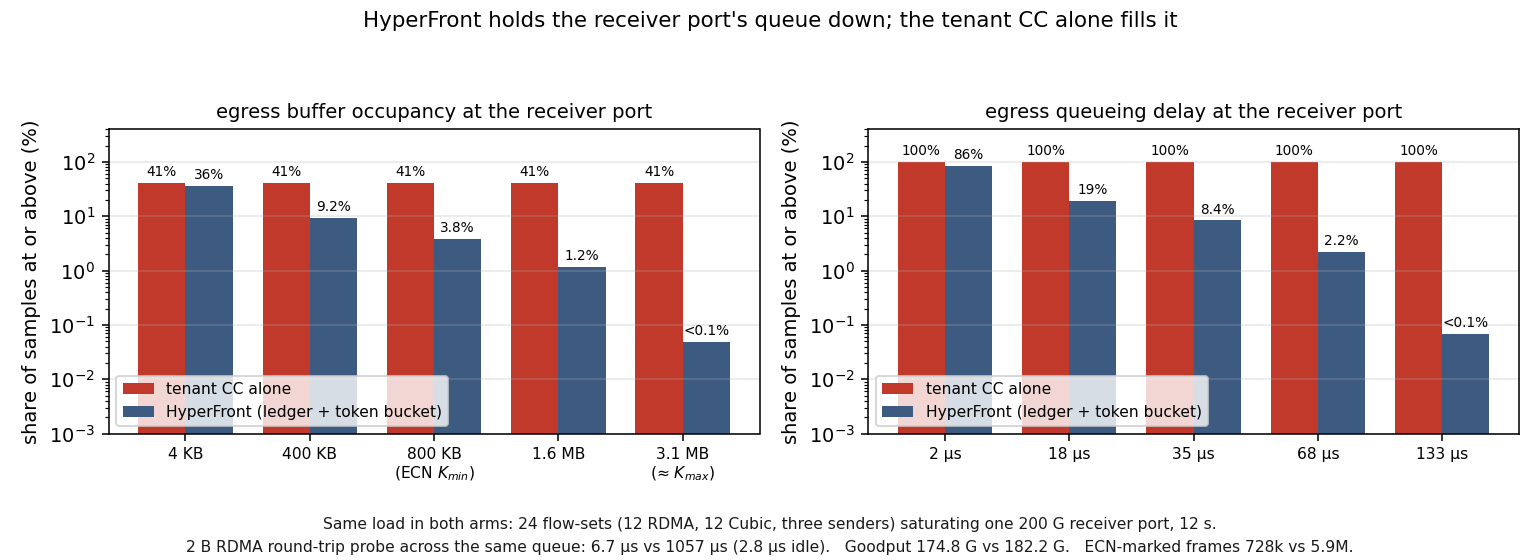
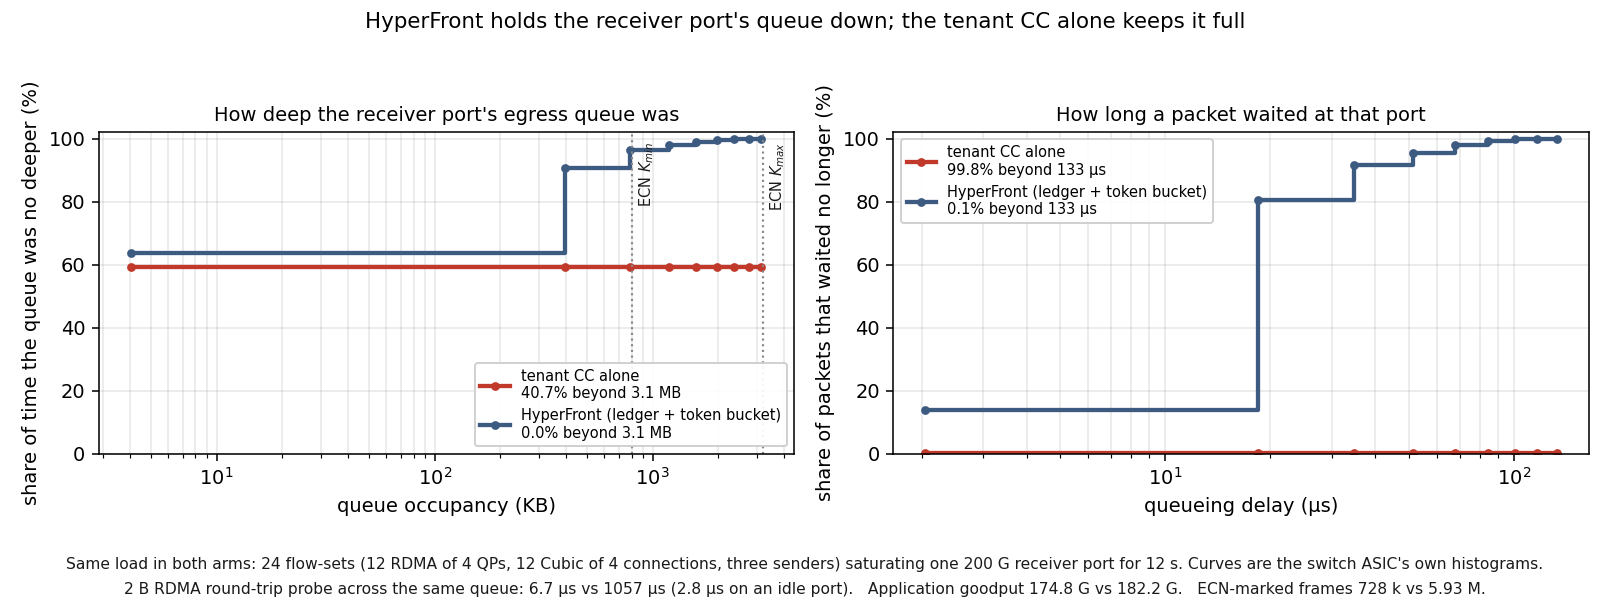
排队实验的图改成累积分布：左图队列深度、右图排队时延，两臂各一条，档的边界带标记，溢出档在图例里注明

diff --git a/results/queueing_20260908/plot/queueing.py b/results/queueing_20260908/plot/queueing.py
@@ -1,12 +1,15 @@
 #!/usr/bin/env python3
-"""fig/queueing.png: what the shaper does to the receiver port's queue.
+"""fig/queueing.png: what the shaper does to the receiver port's queue, as CDFs.
 
-Left  - how often the egress buffer at swp37s0 is at or above a threshold,
-        from the ASIC's own occupancy histogram (one sample per 1024 ns).
-Right - how often a packet leaving that port waited at or above a threshold,
-        from the ASIC's egress-latency histogram over the same window.
-Both are read as "share of samples at or above x", so lower is better, and
-the thresholds are the bin edges the switch itself uses.
+Left  - how deep the egress queue at swp37s0 was, from the ASIC's own
+        occupancy histogram: one sample every 1024 ns, so the curve reads
+        "the queue was no deeper than x for this share of the time".
+Right - how long a packet leaving that port waited, from the ASIC's
+        egress-latency histogram over the same window: one sample per packet,
+        so the curve reads "this share of packets waited no longer than x".
+The switch bins the data itself, so both curves are step functions and the
+markers sit on the bin edges. Everything above the last edge lands in one
+overflow bin, which is why each curve is annotated with what is left above it.
 Reads data/queueing.csv (distill.py output) only.
 """
 import csv, os
@@ -15,7 +18,7 @@ import matplotlib; matplotlib.use("Agg")
 import matplotlib.pyplot as plt
 
 BASE = os.path.dirname(os.path.dirname(os.path.abspath(__file__)))
-C = {"hpft": "#3D5A80", "cc": "#c0392b", "ink": "#1a1a1a"}
+C = {"hpft": "#3D5A80", "cc": "#c0392b", "ref": "#888888", "ink": "#1a1a1a"}
 LBL = {"hpft": "HyperFront (ledger + token bucket)", "cc": "tenant CC alone"}
 ARMS = ("cc", "hpft")
 
@@ -23,40 +26,55 @@ rows = list(csv.DictReader(open(os.path.join(BASE, "data", "queueing.csv"))))
 val = lambda m, a: float(next(r["value"] for r in rows if r["metric"] == m and r["arm"] == a))
 
 
-def share_at_or_above(metric, arm, lo):
+def cdf(metric, arm, scale):
+    """[(bin upper edge in display units, cumulative %)], overflow bin excluded;
+    also returns what share is left above the last finite edge."""
     sel = [r for r in rows if r["metric"] == metric and r["arm"] == arm]
-    tot = sum(float(r["count"]) for r in sel) or 1.0
-    return 100.0 * sum(float(r["count"]) for r in sel if float(r["bin_lo"]) >= lo) / tot
+    bins = sorted(((float(r["bin_lo"]), r["bin"], float(r["count"])) for r in sel))
+    tot = sum(b[2] for b in bins) or 1.0
+    xs, ys, cum = [], [], 0.0
+    for lo, name, cnt in bins:
+        cum += cnt
+        hi = name.split(":")[1]
+        if hi == "*":
+            break                      # the overflow bin has no upper edge
+        xs.append(int(hi) * scale); ys.append(100.0 * cum / tot)
+    return xs, ys, 100.0 - ys[-1]
 
 
 PANELS = [
-    ("buffer", "egress buffer occupancy", [(4032, "4 KB"), (397248, "400 KB"), (790464, "800 KB\n(ECN $K_{min}$)"),
-                                           (1576896, "1.6 MB"), (3149760, "3.1 MB\n(≈ $K_{max}$)")]),
-    ("latency", "egress queueing delay", [(2048, "2 µs"), (18432, "18 µs"), (34816, "35 µs"),
-                                          (67584, "68 µs"), (133120, "133 µs")]),
+    ("buffer", 1 / 1e3, "queue occupancy (KB)",
+     "How deep the receiver port's egress queue was",
+     "share of time the queue was no deeper (%)",
+     [(800, "ECN $K_{min}$"), (3200, "ECN $K_{max}$")], "3.1 MB", "lower right"),
+    ("latency", 1 / 1e3, "queueing delay (µs)",
+     "How long a packet waited at that port",
+     "share of packets that waited no longer (%)", [], "133 µs", "upper left"),
 ]
-fig, ax = plt.subplots(1, 2, figsize=(11, 4.0))
-for a, (metric, title, ticks) in enumerate(PANELS):
-    x = np.arange(len(ticks)); w = 0.38
-    for i, arm in enumerate(ARMS):
-        y = [max(share_at_or_above(metric, arm, lo), 1e-3) for lo, _ in ticks]
-        b = ax[a].bar(x + (i - 0.5) * w, y, w, color=C[arm], label=LBL[arm])
-        ax[a].bar_label(b, labels=[("%.0f%%" % v) if v >= 10 else ("%.1f%%" % v) if v >= 0.1 else "<0.1%"
-                                   for v in y], fontsize=7, padding=2)
-    ax[a].set_yscale("log"); ax[a].set_ylim(1e-3, 400)
-    ax[a].set_xticks(x); ax[a].set_xticklabels([t for _, t in ticks], fontsize=8)
-    ax[a].set_ylabel("share of samples at or above (%)")
-    ax[a].set_title(f"{title} at the receiver port", fontsize=10)
-    ax[a].grid(alpha=0.3, axis="y", which="major")
-    ax[a].legend(fontsize=8, loc="lower left")
-fig.suptitle("HyperFront holds the receiver port's queue down; the tenant CC alone fills it", fontsize=11)
-sub1 = "Same load in both arms: 24 flow-sets (12 RDMA, 12 Cubic, three senders) saturating one 200 G receiver port, 12 s."
+fig, ax = plt.subplots(1, 2, figsize=(11.5, 4.3))
+for a, (metric, scale, xlab, title, ylab, marks, tail_at, legend_loc) in enumerate(PANELS):
+    for arm in ARMS:
+        xs, ys, rest = cdf(metric, arm, scale)
+        ax[a].step(xs, ys, where="post", color=C[arm], lw=2.2, marker="o", ms=3.5,
+                   label=f"{LBL[arm]}\n{rest:.1f}% beyond {tail_at}")
+    for v, t in marks:
+        ax[a].axvline(v, color=C["ref"], ls=":", lw=1.1)
+        ax[a].text(v * 1.06, 99, t, fontsize=7.5, color=C["ink"], rotation=90, va="top")
+    ax[a].set_xscale("log")
+    ax[a].set_ylim(0, 102); ax[a].set_yticks(range(0, 101, 20))
+    ax[a].set_xlabel(xlab); ax[a].set_ylabel(ylab)
+    ax[a].set_title(title, fontsize=10)
+    ax[a].grid(alpha=0.3, which="both")
+    ax[a].legend(fontsize=7.5, loc=legend_loc, framealpha=0.92)
+fig.suptitle("HyperFront holds the receiver port's queue down; the tenant CC alone keeps it full", fontsize=11)
+sub1 = ("Same load in both arms: 24 flow-sets (12 RDMA of 4 QPs, 12 Cubic of 4 connections, three senders) "
+        "saturating one 200 G receiver port for 12 s. Curves are the switch ASIC's own histograms.")
 sub2 = (f"2 B RDMA round-trip probe across the same queue: {val('probe_rtt_us','hpft'):.1f} µs vs "
-        f"{val('probe_rtt_us','cc'):.0f} µs (2.8 µs idle).   "
-        f"Goodput {val('goodput_gbps','hpft'):.1f} G vs {val('goodput_gbps','cc'):.1f} G.   "
-        f"ECN-marked frames {val('ecn_marked','hpft')/1e3:.0f}k vs {val('ecn_marked','cc')/1e6:.1f}M.")
+        f"{val('probe_rtt_us','cc'):.0f} µs (2.8 µs on an idle port).   "
+        f"Application goodput {val('goodput_gbps','hpft'):.1f} G vs {val('goodput_gbps','cc'):.1f} G.   "
+        f"ECN-marked frames {val('ecn_marked','hpft')/1e3:.0f} k vs {val('ecn_marked','cc')/1e6:.2f} M.")
 fig.text(0.5, 0.055, sub1, ha="center", fontsize=8, color=C["ink"])
-fig.text(0.5, 0.015, sub2, ha="center", fontsize=8, color=C["ink"])
+fig.text(0.5, 0.013, sub2, ha="center", fontsize=8, color=C["ink"])
 fig.tight_layout(rect=(0, 0.10, 1, 0.93))
 os.makedirs(os.path.join(BASE, "fig"), exist_ok=True)
 fig.savefig(os.path.join(BASE, "fig", "queueing.png"), dpi=140)

diff --git a/results/queueing_20260908/README.md b/results/queueing_20260908/README.md
@@ -41,7 +41,7 @@ nv set system telemetry enable on
 
 ## 结果
 
-图：`fig/queueing.png`。数据：`data/queueing.csv`。原始：`results/<臂>/`。
+图：`fig/queueing.png`，两条曲线都是交换机自己的直方图画成的累积分布：左图读作"队列不深于 x 的时间占比"（每 1024 ns 一次采样），右图读作"排队不超过 x 的包占比"（每个包一次采样）。交换机把数据分好了档，所以曲线是阶梯，标记落在档的边界上；最高一档没有上界，图例注明了各自还剩多少落在它里面。数据：`data/queueing.csv`。原始：`results/<臂>/`。
 
 **出向缓冲占用**（采样点占比，越低越好）：
 
